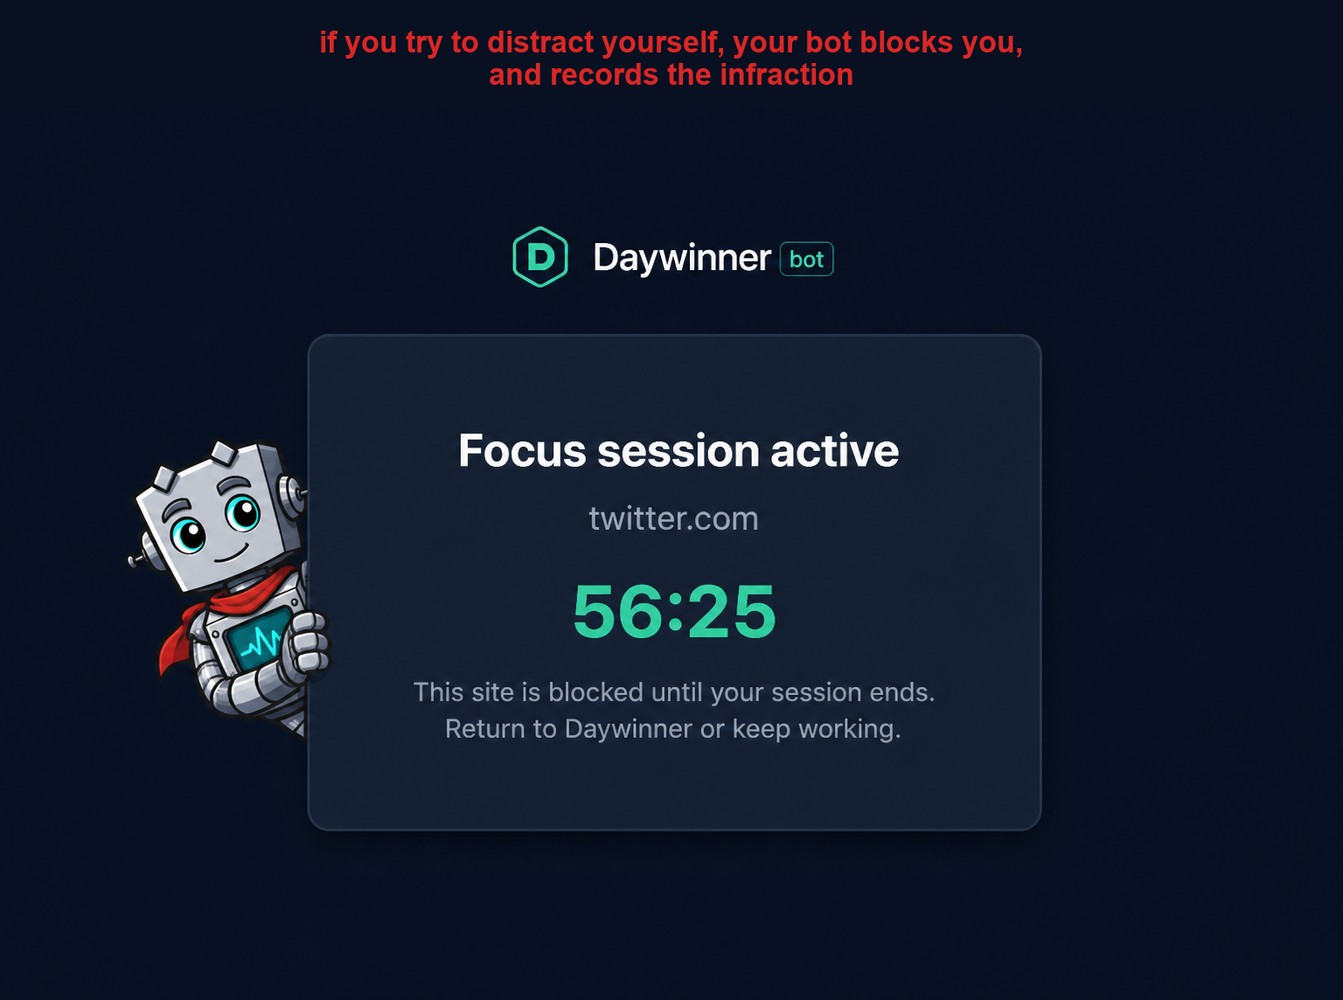
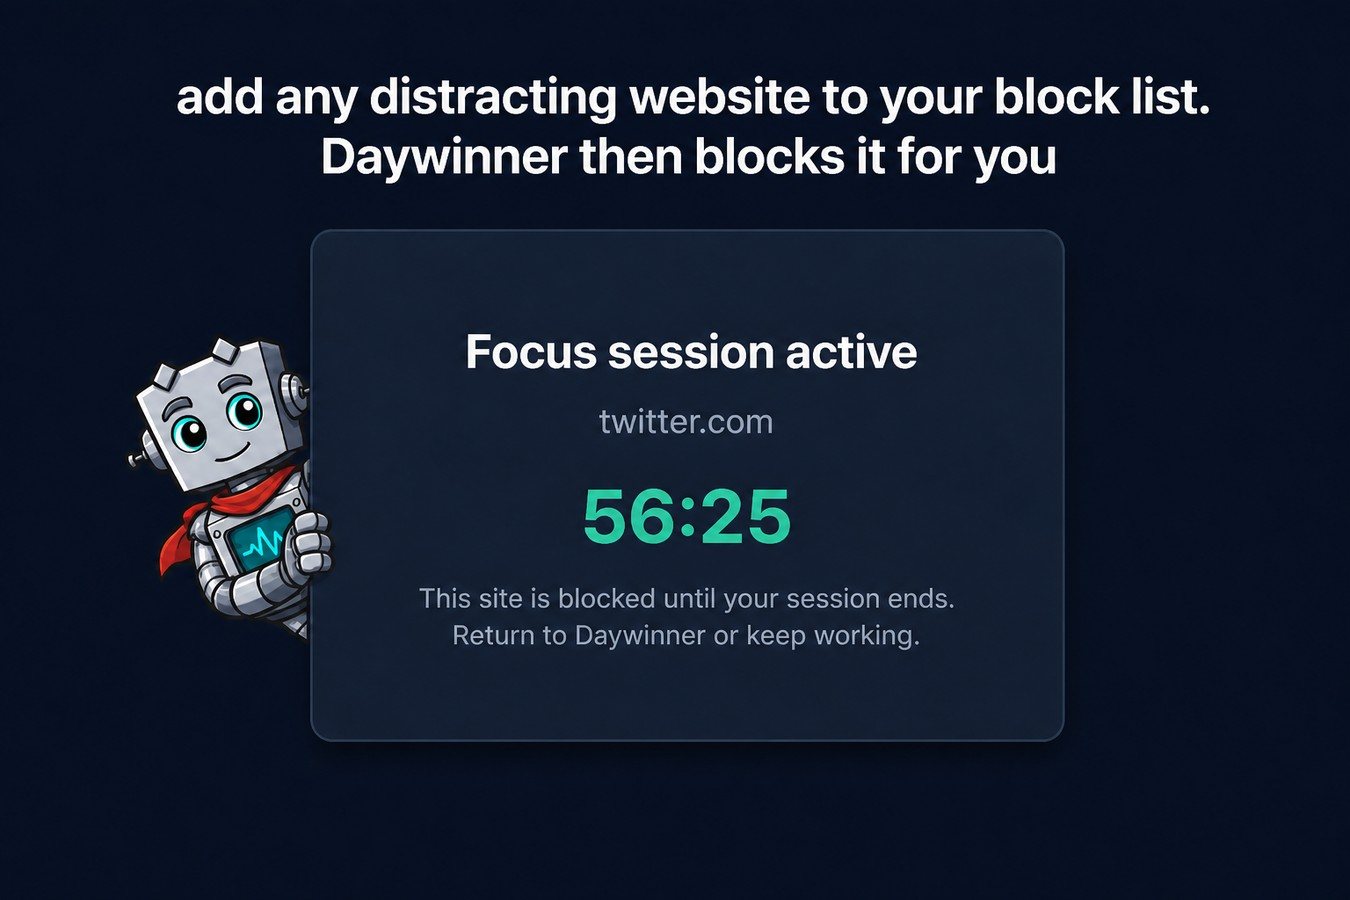
Center problem headline, drop body copy, refresh focus image.

diff --git a/components/marketing/LandingPage.tsx b/components/marketing/LandingPage.tsx
@@ -105,24 +105,18 @@ export default function LandingPage() {
 
       <section className="border-t border-slate-200 pt-12 sm:pt-16">
         <div className="flex flex-col items-center text-center">
-          <div className="mb-12 w-full max-w-2xl text-left">
+          <div className="mb-12 w-full max-w-2xl text-center">
             <p className="mb-3 text-xs font-semibold uppercase tracking-[0.14em] text-slate-400">The problem</p>
             <h2 className="text-[1.65rem] font-bold leading-[1.35] tracking-tight text-slate-900 sm:text-[2.15rem] sm:leading-[1.3]">
               You&apos;re not undisciplined. The world&apos;s most addictive thing ever created (social media) is
               accessible on the device that you&apos;re supposed to get stuff done with. Which is pretty insane if you
               think about it. This is the 1st thing daywinner bot fixes.
             </h2>
-            <p className="mt-5 text-base leading-relaxed text-slate-600 sm:text-lg sm:leading-relaxed">
-              Same laptop. Same browser. One tab is your future — the other 47 are engineered to steal it. Your brain
-              doesn&apos;t stand a chance against infinite scroll, dopamine pings, and &ldquo;just five minutes.&rdquo;
-              Discipline isn&apos;t the missing piece. A system that blocks the noise and puts the real work front and
-              center is.
-            </p>
             <Image
               src="/marketing/focus-session-branded.jpg"
-              alt="Focus session active — if you try to distract yourself, your bot blocks you and records the infraction"
+              alt="Focus session active — add any distracting website to your block list and Daywinner blocks it for you"
               width={1400}
-              height={788}
+              height={1000}
               className="mx-auto mt-8 h-auto w-full max-w-lg"
               unoptimized
             />
